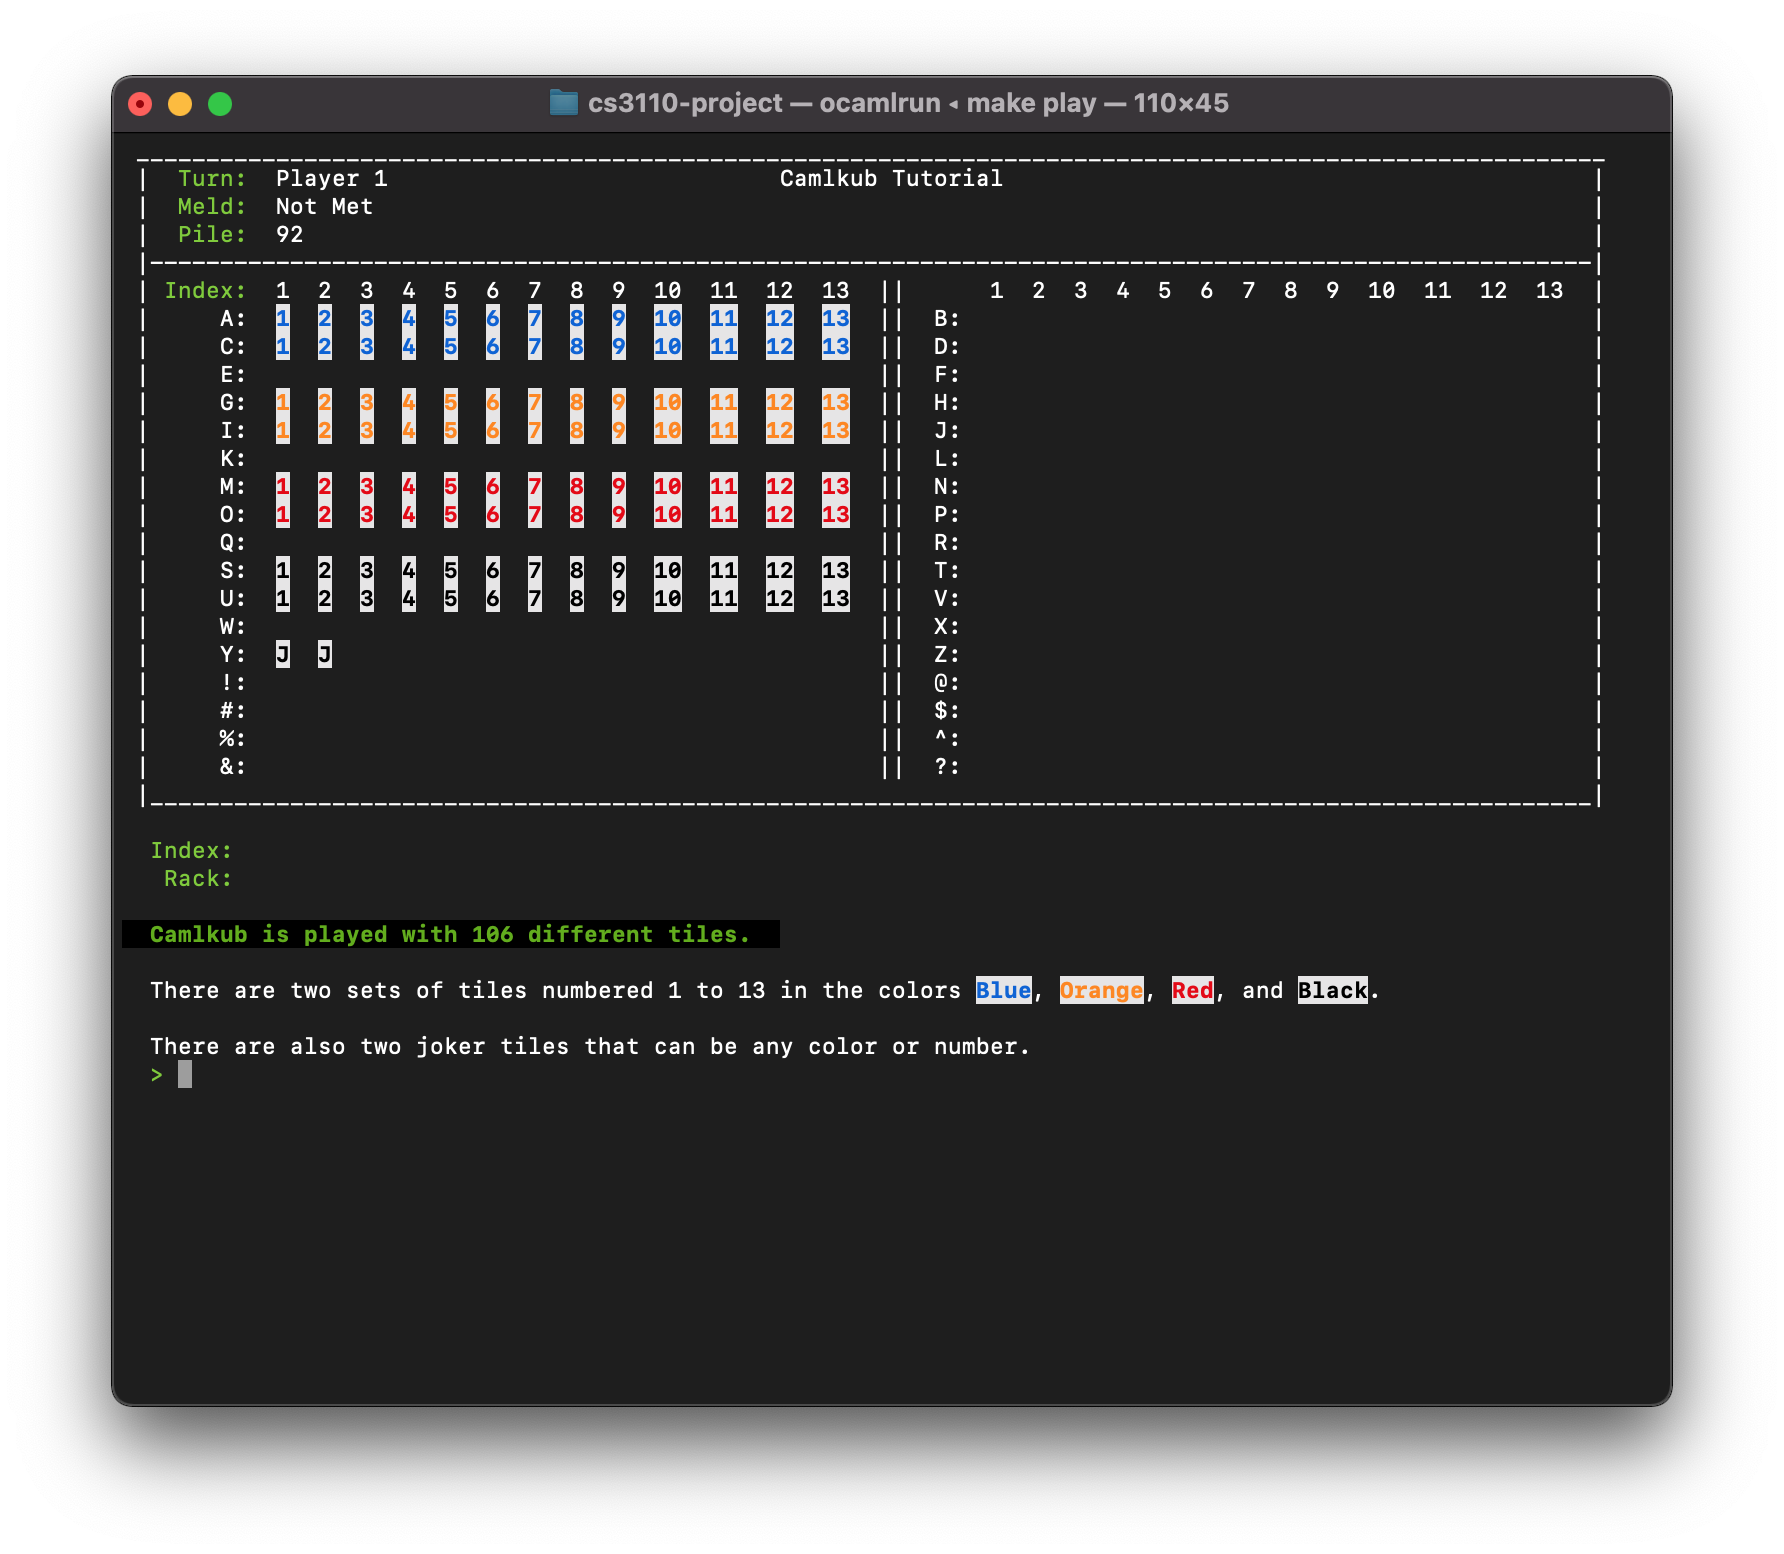
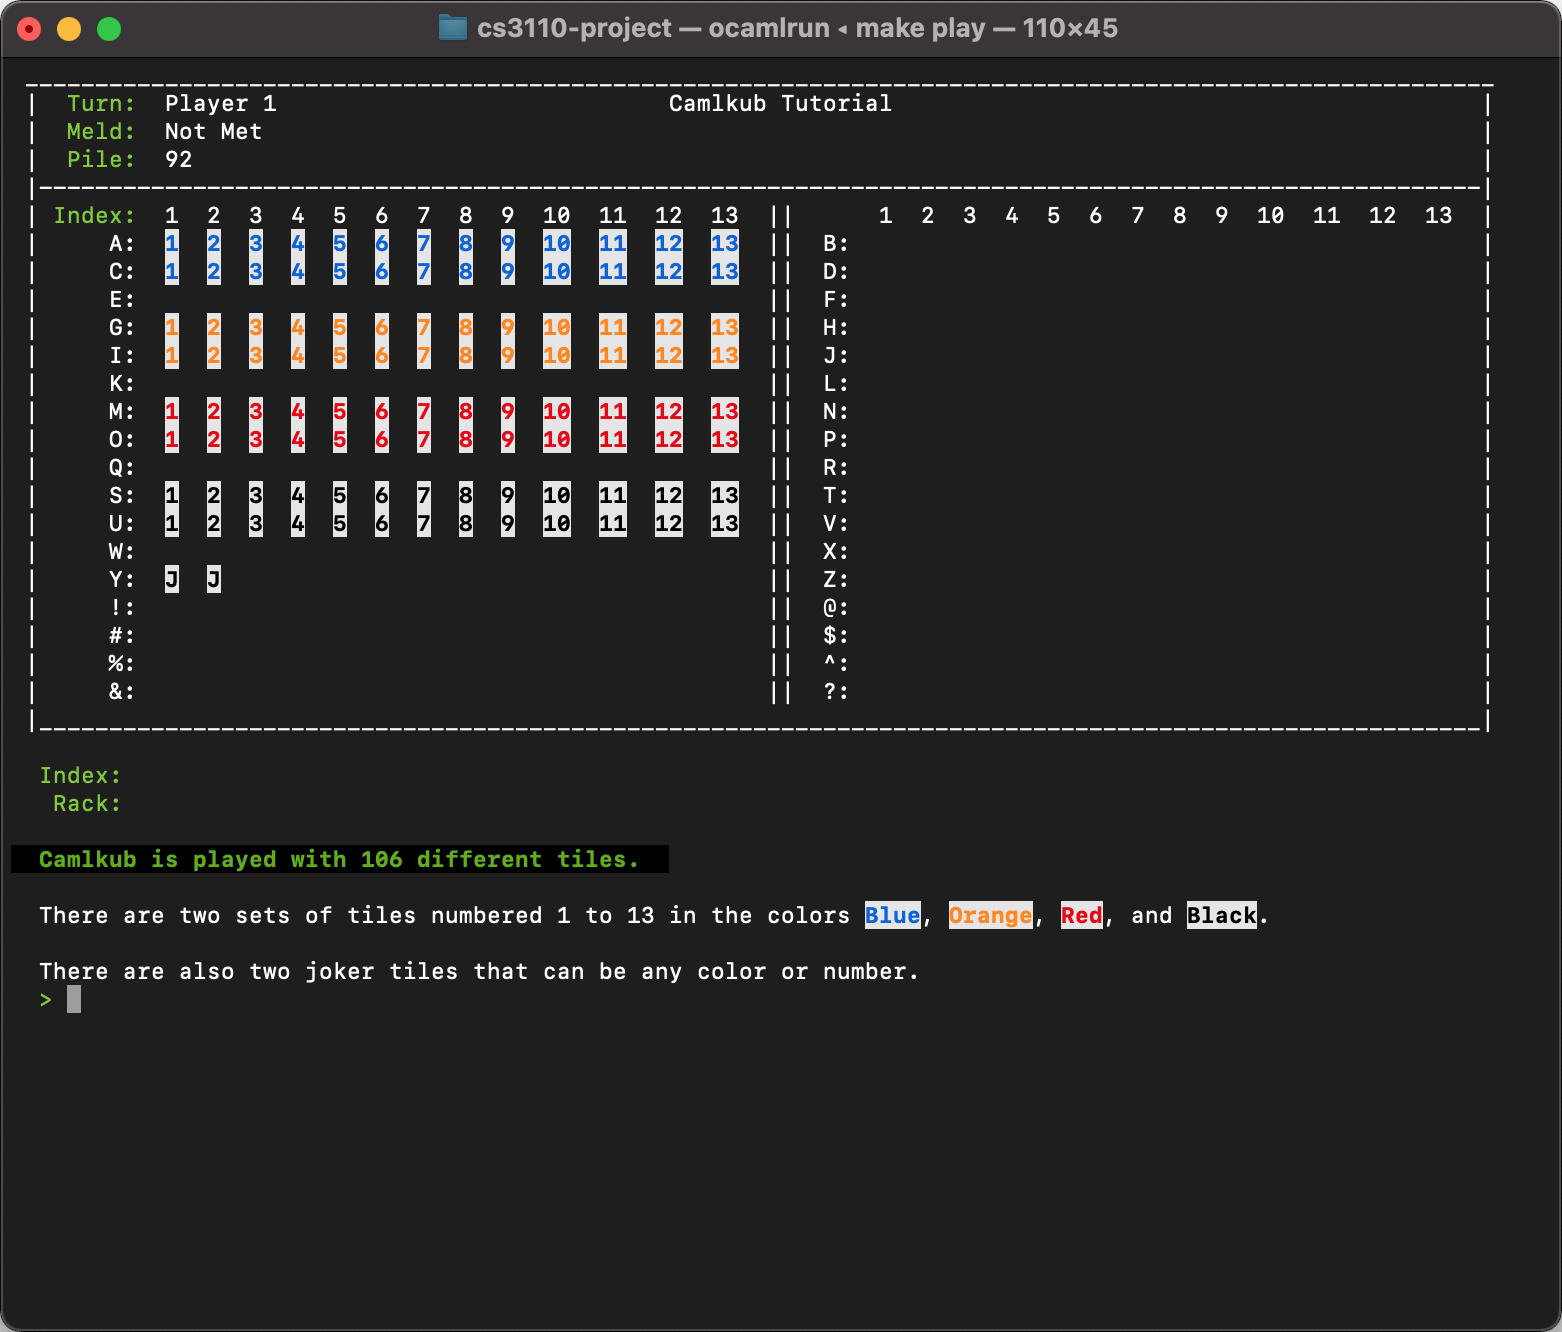
new cropped png and gif

diff --git a/README.md b/README.md
@@ -36,10 +36,15 @@ See [LICENSE.md](LICENSE.md) for more information.
 
 
 ## Game Play Examples
+
+
 ![Camlkub Game - Welcome screen and user commands.](images/camlkub_welcome.png "Camlkub Game - Welcome Screen")
-<figcaption>The welcome screen and command instructions.</figcaption>
+Game Play Example 1: The welcome screen and command instructions.
+<br>
 
 ![Camlkub Game - Tutorial example.](images/camlkub_tutorial.png "Camlkub Game - Tutorial Example")
-A page from the new player tutorial.
+Game Play Example 2: New player tutorial section.
+<br>
+
 ![Camlkub Game - Play action example.](images/camlkub_play.gif "Camlkub Game - Play Action Example")
-Example of a just started game between two players.
+Game Play Example 3: New game between two players.
